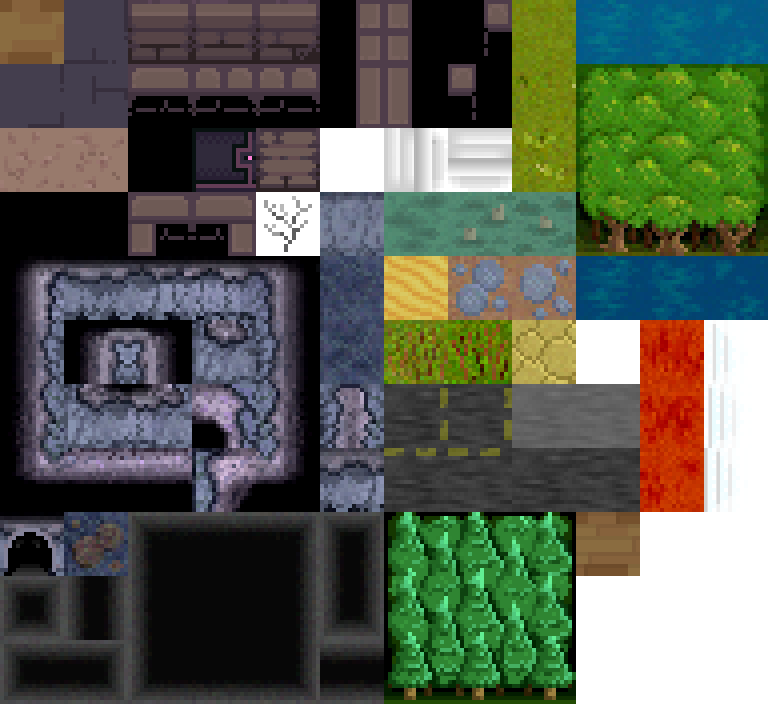
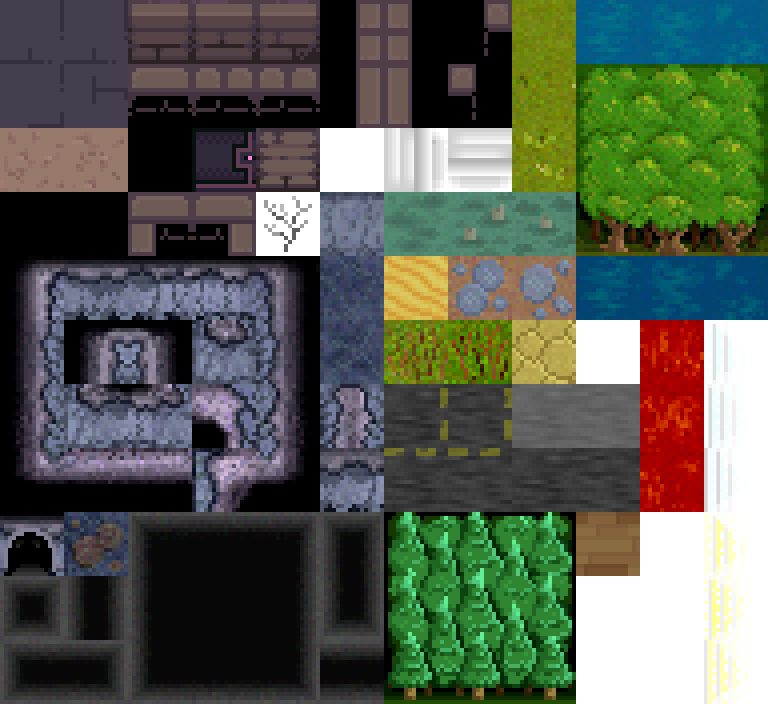
lava and cavern tweaks

Changed region(s): [[0.8125, 0.4375, 0.9688, 1.0], [0.0, 0.0, 0.0938, 0.0938]]

diff --git a/src/main/kotlin/world/terrains/Water.kt b/src/main/kotlin/world/terrains/Water.kt
@@ -17,6 +17,8 @@ sealed class Water(
     override fun stepSound(actor: Actor) = Speaker.SFX.STEPWATER
     override fun stepSpark(actor: Actor, dir: XY) = Splash(dir)
 
+    open fun surfGlyph() = Glyph.SURF
+
     override fun renderExtraQuads(level: Level, x: Int, y: Int, vis: Float, glyph: Glyph, light: LightColor,
                                   doQuad: (x0: Double, y0: Double, x1: Double, y1: Double, tx0: Float, ty0: Float, tx1: Float, ty1: Float,
                                            vis: Float, glyph: Glyph, light: LightColor, rotate: Boolean
@@ -26,10 +28,10 @@ sealed class Water(
         CARDINALS.forEach { dir ->
             if (get(level.getTerrain(x+dir.x,y+dir.y)) !is Water) {
                 when (dir) {
-                    WEST -> doQuad(x.toDouble(), y.toDouble(), x.toDouble() + 1.0, y.toDouble() + 1.0, 0f, 0f, 1f, 1f, vis, Glyph.SURF, light, false)
-                    EAST -> doQuad(x.toDouble(), y.toDouble(), x.toDouble() + 1.0, y.toDouble() + 1.0, 1f, 0f, 0f, 1f, vis, Glyph.SURF, light, false)
-                    NORTH -> doQuad(x.toDouble(), y.toDouble(), x.toDouble() + 1.0, y.toDouble() + 1.0, 0f, 0f, 1f, 1f, vis, Glyph.SURF, light, true)
-                    SOUTH -> doQuad(x.toDouble(), y.toDouble(), x.toDouble() + 1.0, y.toDouble() + 1.0, 1f, 0f, 0f, 1f, vis, Glyph.SURF, light, true)
+                    WEST -> doQuad(x.toDouble(), y.toDouble(), x.toDouble() + 1.0, y.toDouble() + 1.0, 0f, 0f, 1f, 1f, vis, surfGlyph(), light, false)
+                    EAST -> doQuad(x.toDouble(), y.toDouble(), x.toDouble() + 1.0, y.toDouble() + 1.0, 1f, 0f, 0f, 1f, vis, surfGlyph(), light, false)
+                    NORTH -> doQuad(x.toDouble(), y.toDouble(), x.toDouble() + 1.0, y.toDouble() + 1.0, 0f, 0f, 1f, 1f, vis, surfGlyph(), light, true)
+                    SOUTH -> doQuad(x.toDouble(), y.toDouble(), x.toDouble() + 1.0, y.toDouble() + 1.0, 1f, 0f, 0f, 1f, vis, surfGlyph(), light, true)
                 }
             }
         }
@@ -49,7 +51,9 @@ object DeepWater : Water(Type.TERRAIN_DEEP_WATER, Glyph.DEEP_WATER) {
 // Only used in generation, should never appear in the world
 object ScratchWater : Water(Type.GENERIC_WATER, Glyph.BLANK) { }
 
-object Lava : Terrain(Type.TERRAIN_LAVA, Glyph.LAVA, false, true, false, false) {
+object Lava : Water(Type.TERRAIN_LAVA, Glyph.LAVA) {
     override fun name() = "lava"
+    override fun surfGlyph() = Glyph.LAVA_SURF
     override fun glowColor() = LightColor(1f, 0.4f, 0.1f)
+    override fun isWalkable() = false
 }

diff --git a/src/main/kotlin/world/gen/cartos/CavernCarto.kt b/src/main/kotlin/world/gen/cartos/CavernCarto.kt
@@ -1,10 +1,7 @@
 package world.gen.cartos
 
 import audio.Speaker
-import things.Bonepile
-import things.Glowstone
-import things.LitThing
-import things.Thing
+import things.*
 import util.*
 import world.Building
 import world.Chunk
@@ -16,6 +13,7 @@ import world.level.EnclosedLevel
 import world.path.DistanceMap
 import world.terrains.Terrain
 import world.terrains.Terrain.Type.*
+import world.terrains.Water
 
 class CavernCarto(
     level: EnclosedLevel,
@@ -83,7 +81,7 @@ class CavernCarto(
 
     private fun placeTreasure() {
         repeat (Dice.oneTo(3)) {
-            placeThing(distanceMap, Bonepile(), distanceMap.maxDistance / 2)
+            placeThing(distanceMap, if (Dice.chance(0.25f)) Trunk() else Bonepile(), distanceMap.maxDistance / 2)
         }
     }
 
@@ -91,7 +89,8 @@ class CavernCarto(
         while (true) {
             val x = Dice.zeroTil(width)
             val y = Dice.zeroTil(height)
-            if (isWalkableAt(chunk.x + x, chunk.y + y) && map.distanceAt(x,y) >= minDistance) {
+            if (isWalkableAt(chunk.x + x, chunk.y + y) && Terrain.get(getTerrain(x,y)) !is Water
+                && map.distanceAt(x,y) >= minDistance) {
                 addThing(chunk.x + x, chunk.y + y, thing)
                 return
             }
@@ -162,7 +161,8 @@ class CavernCarto(
         val startEdge: XY
         val endEdge: XY
         val bridgeVertical: Boolean
-        var bridgeOffset = -1
+        var bridgeOffset: Int
+        val bridgeTerrain = if (Dice.flip()) TERRAIN_WOODFLOOR else TERRAIN_CAVEFLOOR
         if (Dice.flip()) {
             startPos =  XY(Dice.range(x0 + 3, x1 - 3) - x0, y0)
             startEdge = NORTH
@@ -193,7 +193,7 @@ class CavernCarto(
             val p = getBezier(t, start.pos.toXYf(), start.control.toXYf(), end.control.toXYf(), end.pos.toXYf())
             carveRiverChunk(Rect((x0 + p.x - width/2).toInt(), (y0 + p.y - width/2).toInt(),
                 (x0 + p.x + width/2).toInt(), (y0 + p.y + width/2).toInt()), (width >= 3f), terrain,
-                bridgeOffset, bridgeVertical, if (Dice.flip()) TERRAIN_WOODFLOOR else TERRAIN_CAVEFLOOR)
+                bridgeOffset, bridgeVertical, bridgeTerrain)
             chunk.setSound(x0 + p.x.toInt(), y0 + p.y.toInt(), Speaker.PointAmbience(Speaker.Ambience.RIVER1, 30f, 1f))
             t += step
             width += widthStep

diff --git a/src/main/kotlin/things/Container.kt b/src/main/kotlin/things/Container.kt
@@ -121,6 +121,30 @@ class Fridge : Container() {
 }
 
 @Serializable
+class Trunk : Container() {
+    override fun name() = "trunk"
+    override fun description() = "A heavy metal-bound trunk."
+    override fun glyph() = Glyph.STRONGBOX
+    override fun isPortable() = false
+    override fun openVerb() = "open"
+
+    override fun randomTreasureCount() = Dice.oneTo(4)
+    override fun randomTreasure() = when (Dice.zeroTo(10)) {
+        0 -> BoysLife()
+        1 -> Lighter()
+        2 -> HardHat()
+        3 -> Axe()
+        4 -> Pickaxe()
+        5 -> Bandages()
+        6 -> FirstAidKit()
+        7 -> RiotHelmet()
+        8 -> TravelBoots()
+        9 -> Paperback()
+        else -> Torch()
+    }
+}
+
+@Serializable
 class Bonepile : Container() {
     override fun name() = "bone pile"
     override fun description() = "A pile of dried old bones; from what, you can't tell."
@@ -129,7 +153,7 @@ class Bonepile : Container() {
     override fun openVerb() = "search"
     override fun isEmptyMsg() = "You find nothing useful in the bones."
 
-    override fun randomTreasureCount() = Dice.zeroTo(2)
+    override fun randomTreasureCount() = Dice.zeroTo(1)
     override fun randomTreasure() = when (Dice.zeroTo(10)) {
         0 -> BoysLife()
         1 -> Lighter()

diff --git a/src/main/kotlin/render/tilesets/TerrainTileSet.kt b/src/main/kotlin/render/tilesets/TerrainTileSet.kt
@@ -16,6 +16,13 @@ fun TerrainTileSet() =
             add(11, 7)
             add(11, 6)
         })
+        setTile(Glyph.LAVA_SURF, AnimatedTile(this).apply {
+            frameMs = 381
+            add(11, 8)
+            add(11, 9)
+            add(11, 10)
+            add(11, 9)
+        })
 
         setTile(Glyph.CAVE_FLOOR, VariantsTile(this).apply {
             add(0.5f, 5, 4)
@@ -183,11 +190,11 @@ fun TerrainTileSet() =
             add(0.3f, 10, 4)
         })
 
-        setTile(Glyph.LAVA, AnimatedTile(this).apply {
-            frameMs = 500
-            add(10, 5)
-            add(10, 6)
-            add(10, 7)
+        setTile(Glyph.LAVA, WaterTile(this).apply {
+            animA = 743
+            add(0.3f, 10, 5)
+            add(0.4f, 10, 6)
+            add(0.3f, 10, 7)
         })
 
         setTile(Glyph.PORTAL_DOOR, SimpleTile(this, 3, 2))

diff --git a/src/main/kotlin/render/tileholders/WaterTile.kt b/src/main/kotlin/render/tileholders/WaterTile.kt
@@ -12,13 +12,14 @@ class WaterTile(
     override val cacheable: Boolean = false
 
     private val variants = ArrayList<Triple<Float, Int, Int>>()
+    var animA = 400
 
     fun add(frequency: Float, tx: Int, ty: Int) {
         variants.add(Triple(frequency, tx, ty))
     }
 
     override fun getTextureIndex(level: Level?, x: Int, y: Int): Int {
-        val seed = x * 10 + y + (Screen.timeMs / (400 + Random(x*10+y).nextInt(200))).toInt()
+        val seed = x * 10 + y + (Screen.timeMs / (animA + Random(x*10+y).nextInt(200))).toInt()
         val dice = Random(seed).nextFloat()
         var chance = 0f
         variants.forEach { v ->

diff --git a/src/main/kotlin/render/tilesets/Glyph.kt b/src/main/kotlin/render/tilesets/Glyph.kt
@@ -41,6 +41,7 @@ enum class Glyph {
     OCCLUSION_SHADOWS_V,
     OCCLUSION_SHADOWS_H,
     SURF,
+    LAVA_SURF,
     PANEL_SHADOW,
     BUTTON_INVENTORY,
     BUTTON_MAP,
